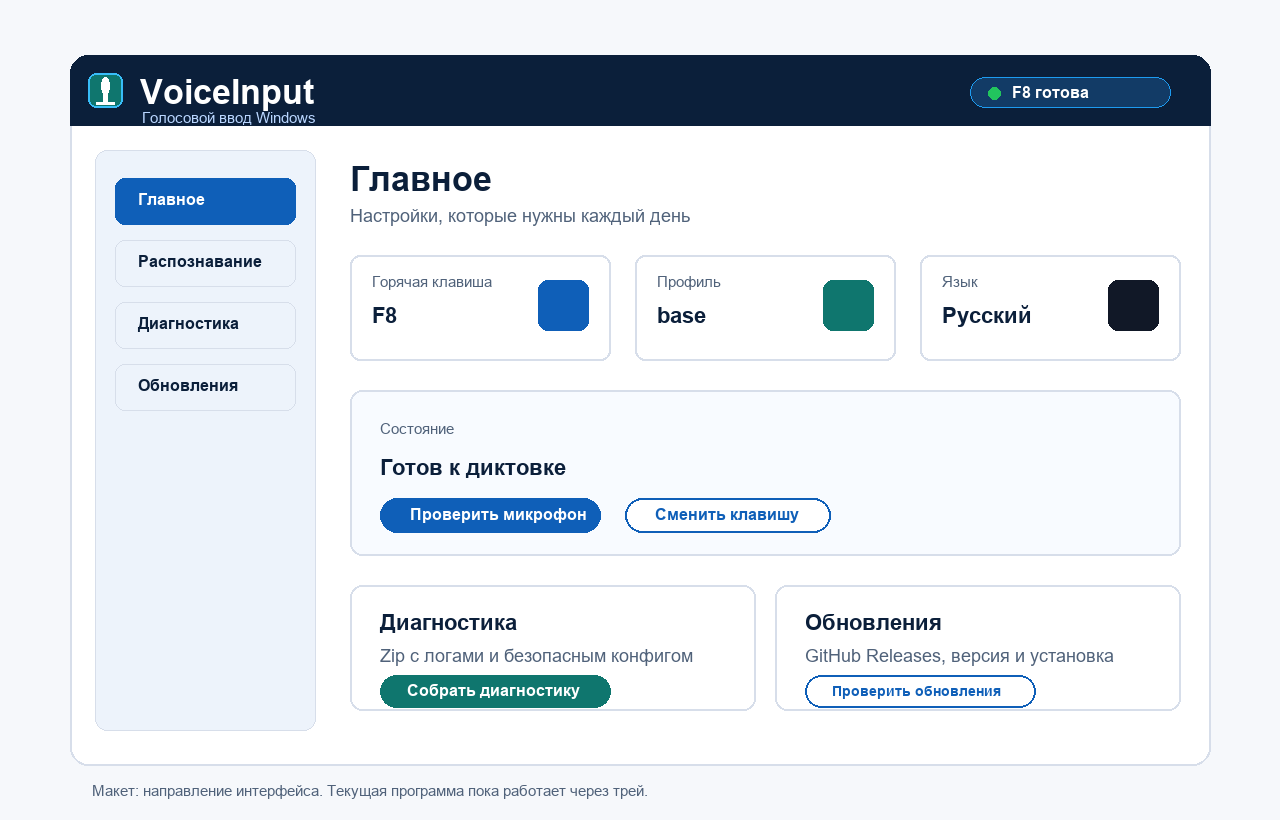
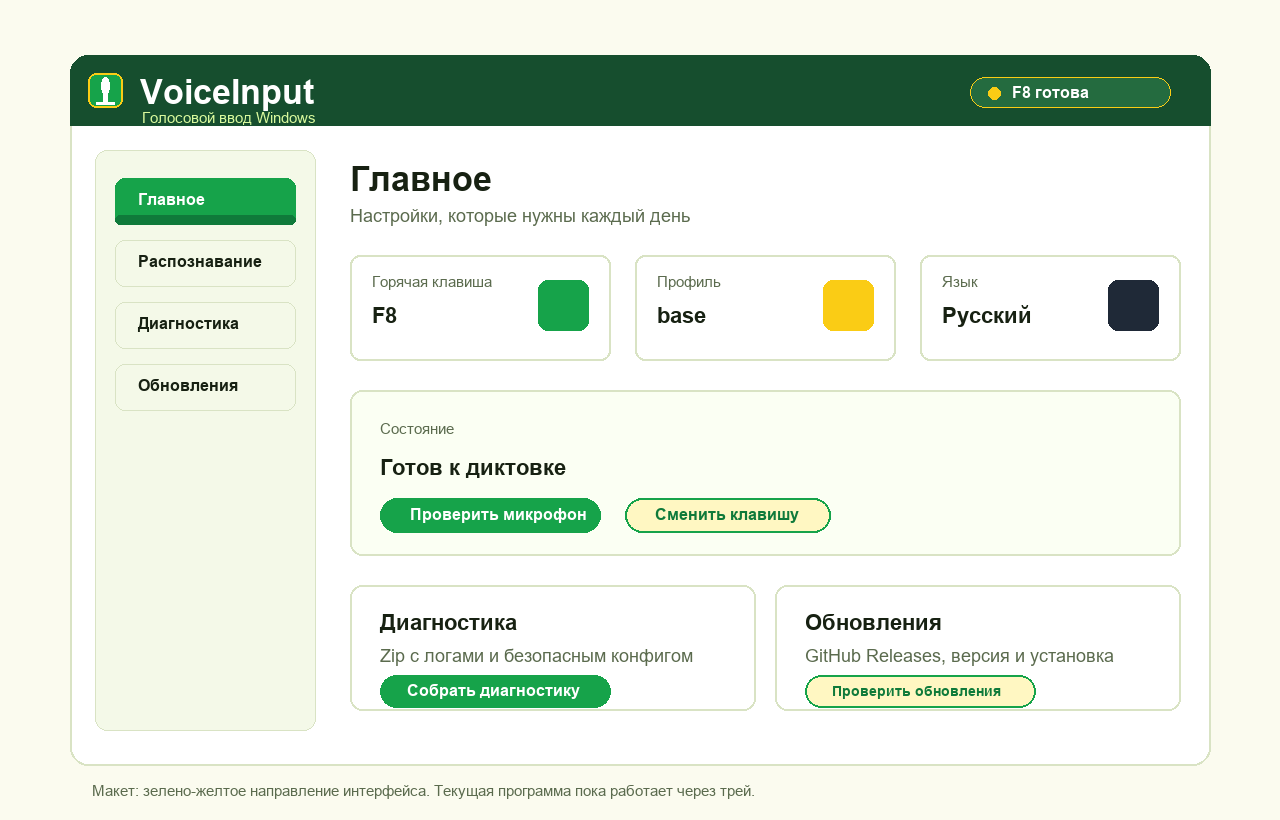
Document project workflow and OpenAI profile

diff --git a/voice_input/config.py b/voice_input/config.py
@@ -43,6 +43,8 @@ profiles:
       compute_type: "int8"
       beam_size: 1
       vad_filter: true
+  openai:
+    backend: "openai"
 
 audio:
   sample_rate: 16000
@@ -122,6 +124,9 @@ DEFAULT_CONFIG_DATA: dict[str, Any] = {
                 "beam_size": 1,
                 "vad_filter": True,
             },
+        },
+        "openai": {
+            "backend": "openai",
         },
     },
     "audio": {

diff --git a/AGENTS.md b/AGENTS.md
@@ -1,0 +1,108 @@
+# AGENTS.md
+
+Правила проекта Golos / VoiceInput для Codex и разработчиков.
+
+## Стек
+
+- Windows desktop utility.
+- Python 3.10+.
+- `faster-whisper` for local speech recognition.
+- Optional OpenAI transcription backend through `OPENAI_API_KEY`.
+- `pynput` for global push-to-talk hotkey.
+- `sounddevice` for microphone recording.
+- `pystray` + Pillow for tray UI.
+- PyInstaller only for release EXE builds.
+
+## Команды разработки
+
+Рабочий запуск во время доработки:
+
+```powershell
+.\run.ps1
+```
+
+Быстрый запуск без пересборки EXE:
+
+```powershell
+.\.venv\Scripts\python.exe -m voice_input.app
+```
+
+Проверка конфигурации:
+
+```powershell
+.\.venv\Scripts\python.exe -m voice_input.app --smoke-test
+```
+
+Список профилей распознавания:
+
+```powershell
+.\.venv\Scripts\python.exe -m voice_input.app --list-profiles
+```
+
+Сбор диагностики:
+
+```powershell
+.\.venv\Scripts\python.exe -m voice_input.app --collect-diagnostics
+```
+
+## Сборка EXE
+
+Во время активной разработки EXE не пересобирать без явной причины. Это долго и мешает быстрым итерациям.
+
+Собирать EXE только:
+
+- перед передачей программы другому человеку;
+- перед GitHub Release;
+- после изменения упаковки, зависимостей или ресурсов, которые надо проверить именно в EXE.
+
+Команда:
+
+```powershell
+.\build_exe.ps1
+```
+
+## Проверки
+
+После изменений запускать доступные проверки:
+
+```powershell
+.\.venv\Scripts\python.exe -m compileall voice_input
+.\.venv\Scripts\python.exe -m voice_input.app --smoke-test
+.\.venv\Scripts\python.exe -m voice_input.app --list-profiles
+```
+
+Для функций диагностики:
+
+```powershell
+.\.venv\Scripts\python.exe -m voice_input.app --collect-diagnostics
+```
+
+## Безопасность
+
+- Не коммитить `.env`, реальные API-ключи, токены, приватные ключи, пароли, VPN-ссылки и другие секреты.
+- Не добавлять в диагностический архив `.env`, аудио из `temp/`, модели из `models/`, приватные ключи и токены.
+- OpenAI-режим включать явно через конфиг или профиль, чтобы пользователь понимал, что аудио отправляется во внешний API.
+- Не менять production/update-поведение без короткого плана.
+
+## Стиль кода
+
+- Вносить минимальные точечные изменения.
+- Сохранять текущую архитектуру модулей `voice_input/`.
+- Не добавлять новые зависимости без причины.
+- Использовать типы и понятные имена.
+- Комментарии добавлять только там, где они реально помогают понять код.
+
+## UI и дизайн
+
+- Основное направление интерфейса: чистый Windows-инструмент, но с более радостной зелёно-жёлтой палитрой.
+- Цвета: зелёный, жёлтый, белый, тёмный текст, немного синего только для служебных акцентов.
+- Не усложнять интерфейс: сначала tray menu, затем небольшое окно настроек.
+- Кнопки должны иметь нормальные hover/active-состояния, аккуратную окантовку и не ломаться на длинном русском тексте.
+
+## Git
+
+- Ветки для работы создавать в формате `codex/{feature}`.
+- Перед коммитом проверять `git status --short --branch`.
+- Не коммитить `dist/`, `build/`, `.venv/`, `models/`, `logs/`, `diagnostics/`, `temp/`.
+- После важных изменений синхронизировать ветку с GitHub.
+- Если пользователь хочет видеть проект сразу на GitHub, пушить изменения в `main` после проверки.

diff --git a/docs/PROJECT_STRUCTURE.md b/docs/PROJECT_STRUCTURE.md
@@ -1,0 +1,84 @@
+# Project structure
+
+```text
+Golos / VoiceInput
+├─ AGENTS.md
+├─ README.md
+├─ config.yaml
+├─ requirements.txt
+├─ run.ps1
+├─ build_exe.ps1
+├─ docs/
+│  ├─ PROJECT_STRUCTURE.md
+│  ├─ ROADMAP.md
+│  └─ ui-mockup.png
+└─ voice_input/
+   ├─ app.py
+   ├─ config.py
+   ├─ diagnostics.py
+   ├─ hotkey.py
+   ├─ logger.py
+   ├─ paste.py
+   ├─ paths.py
+   ├─ recorder.py
+   ├─ single_instance.py
+   ├─ tray.py
+   ├─ utils.py
+   └─ transcribers/
+      ├─ faster_whisper_transcriber.py
+      └─ openai_transcriber.py
+```
+
+## Root files
+
+- `AGENTS.md` - working rules for Codex and developers.
+- `README.md` - user guide: install, run, hotkeys, profiles, diagnostics.
+- `config.yaml` - runtime settings: hotkey, language, backend, profiles, paste, logs.
+- `requirements.txt` - Python dependencies.
+- `run.ps1` - normal development/user launch without EXE rebuild.
+- `build_exe.ps1` - PyInstaller release build script.
+
+## Runtime folders
+
+These folders are local runtime output and are not committed:
+
+- `.venv/` - Python virtual environment.
+- `dist/` - built EXE package.
+- `build/` - PyInstaller build cache.
+- `models/` - downloaded Whisper models.
+- `logs/` - application logs.
+- `diagnostics/` - diagnostic zip archives.
+- `temp/` - temporary WAV recordings.
+
+## Main modules
+
+- `voice_input/app.py` - app entry point, CLI, hotkey lifecycle, record-transcribe-paste pipeline.
+- `voice_input/config.py` - config loading, defaults, recognition profiles.
+- `voice_input/recorder.py` - microphone recording.
+- `voice_input/hotkey.py` - global push-to-talk key handling.
+- `voice_input/paste.py` - text paste through clipboard and keyboard shortcuts.
+- `voice_input/tray.py` - system tray UI.
+- `voice_input/diagnostics.py` - safe diagnostic zip collection.
+- `voice_input/single_instance.py` - Windows mutex to prevent duplicate app instances.
+- `voice_input/logger.py` - rotating file and console logs.
+- `voice_input/paths.py` - source vs EXE runtime paths.
+- `voice_input/utils.py` - transcript cleanup helpers.
+
+## Recognition backends
+
+- `voice_input/transcribers/faster_whisper_transcriber.py` - local `faster-whisper` backend.
+- `voice_input/transcribers/openai_transcriber.py` - optional OpenAI audio transcription backend.
+
+## Development flow
+
+Use Python while the app is actively changing:
+
+```powershell
+.\.venv\Scripts\python.exe -m voice_input.app
+```
+
+Build EXE only for release or handoff:
+
+```powershell
+.\build_exe.ps1
+```

diff --git a/README.md b/README.md
@@ -30,7 +30,7 @@
 
 ## 3. Как запустить
 
-Основной запуск:
+Основной запуск во время разработки и тестирования:
 
 ```powershell
 .\run.ps1
@@ -53,6 +53,8 @@
 ```powershell
 .\.venv\Scripts\python.exe -m voice_input.app --smoke-test
 ```
+
+EXE во время активной доработки не пересобираем. Сборка нужна только перед передачей программы другому человеку или перед GitHub Release.
 
 ## 4. Как выбрать микрофон
 
@@ -102,6 +104,7 @@ recognition_profile: "base"
 - `tiny` - самый быстрый, но хуже русский текст.
 - `base` - текущий рабочий баланс скорости и качества.
 - `small` - точнее в некоторых фразах, но на этом ПК заметно медленнее.
+- `openai` - отправляет аудио в OpenAI API и обычно лучше справляется со сложной диктовкой, если задан `OPENAI_API_KEY`.
 
 Переключить профиль командой:
 
@@ -138,6 +141,18 @@ recognition_profile: "small"
 recognition_profile: "tiny"
 ```
 
+Если локальное распознавание даёт много ошибок, можно попробовать OpenAI-профиль:
+
+```powershell
+.\.venv\Scripts\python.exe -m voice_input.app --set-profile openai
+```
+
+Для возврата на локальный режим:
+
+```powershell
+.\.venv\Scripts\python.exe -m voice_input.app --set-profile base
+```
+
 Если нужно точнее:
 
 ```yaml
@@ -165,7 +180,7 @@ OPENAI_API_KEY=
 Затем в `config.yaml`:
 
 ```yaml
-backend: "openai"
+recognition_profile: "openai"
 
 openai:
   model: "gpt-4o-mini-transcribe"
@@ -183,6 +198,8 @@ openai:
 
 ## 8. Как собрать EXE
 
+Во время активной разработки этот шаг обычно пропускаем.
+
 ```powershell
 .\build_exe.ps1
 ```
@@ -194,6 +211,14 @@ dist/VoiceInput/
 ```
 
 Сборка использует PyInstaller. Папки `dist/` и `build/` исключены из Git.
+
+## Структура проекта
+
+Подробная структура лежит в:
+
+```text
+docs/PROJECT_STRUCTURE.md
+```
 
 ## 9. Как добавить автозапуск Windows
 

diff --git a/docs/ROADMAP.md b/docs/ROADMAP.md
@@ -22,6 +22,13 @@ Add a small Windows settings window with four tabs:
 - Diagnostics: open log, collect diagnostics zip, copy version info.
 - Updates: current version, update channel, check for update, install update.
 
+Visual direction:
+
+- warmer green and yellow palette;
+- joyful but still readable Windows utility;
+- dark text on light surfaces;
+- blue only as a small secondary/system accent.
+
 ## Update strategy
 
 Recommended path: GitHub Releases as the update source.
